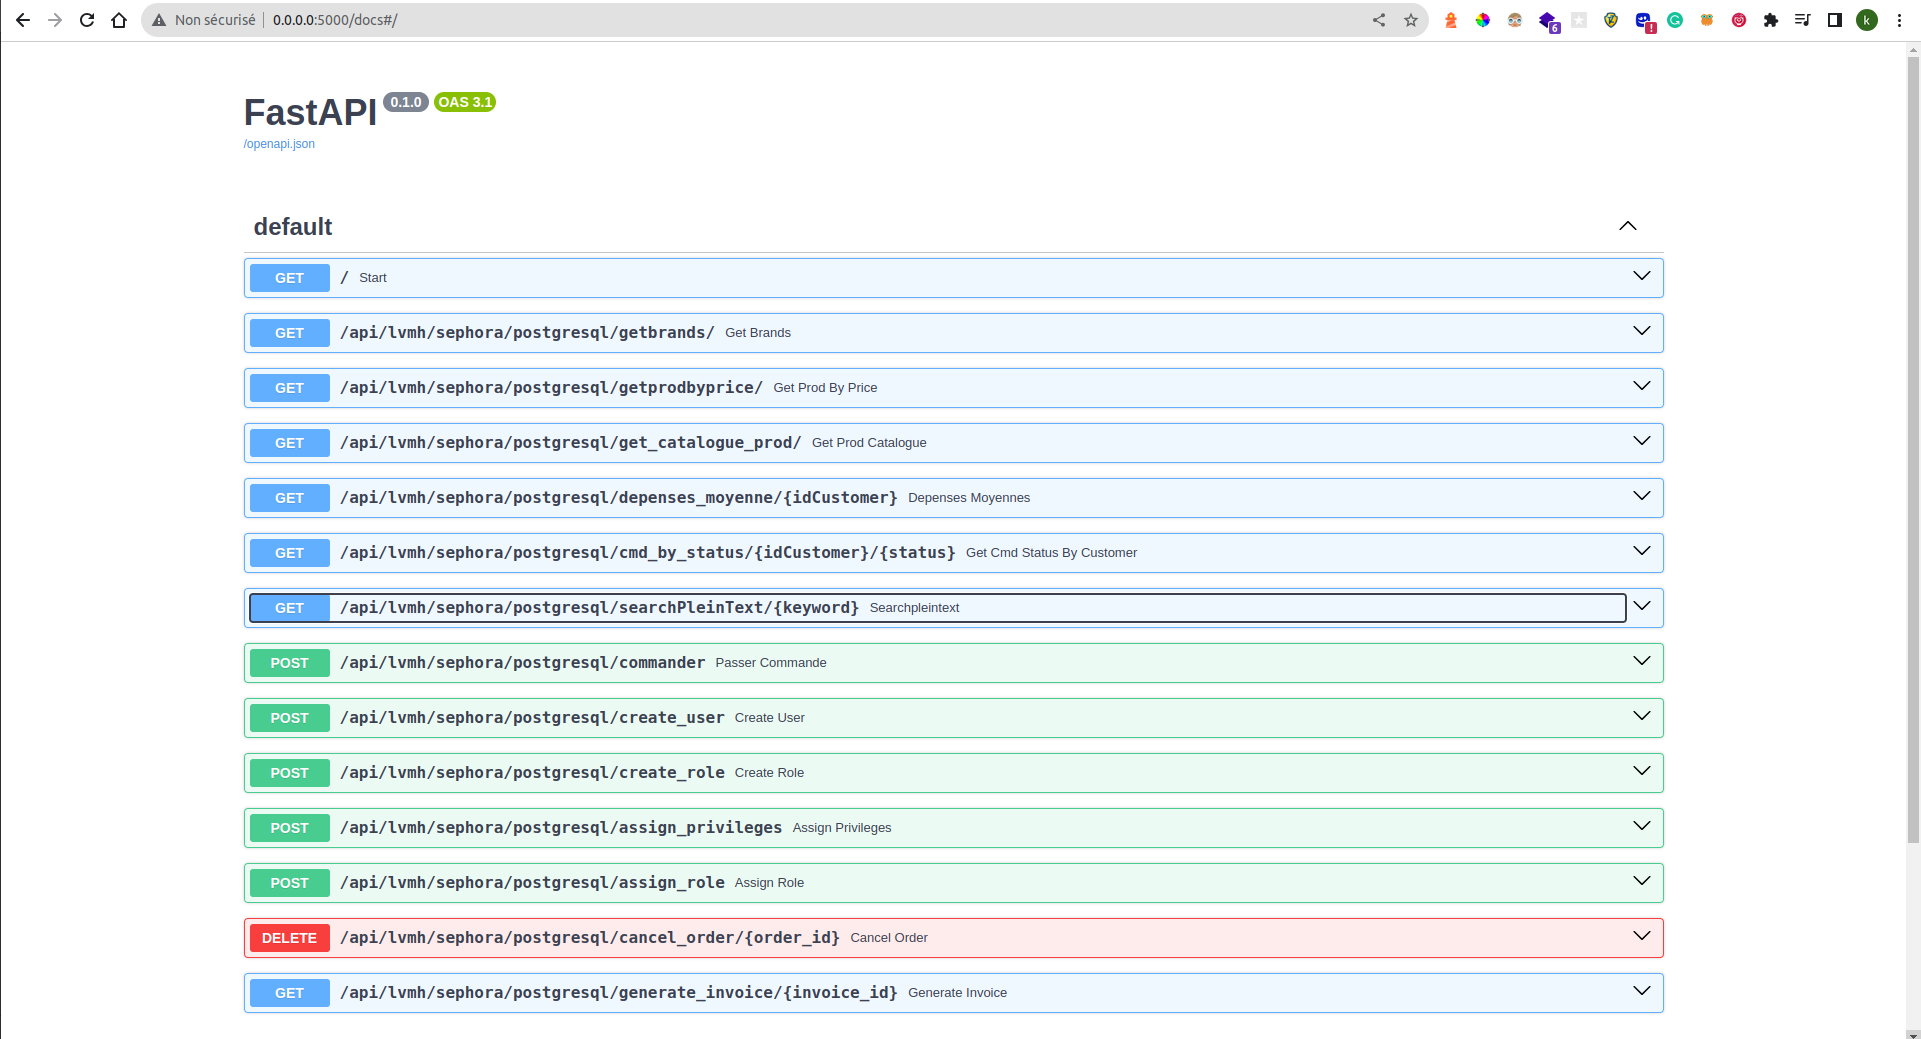
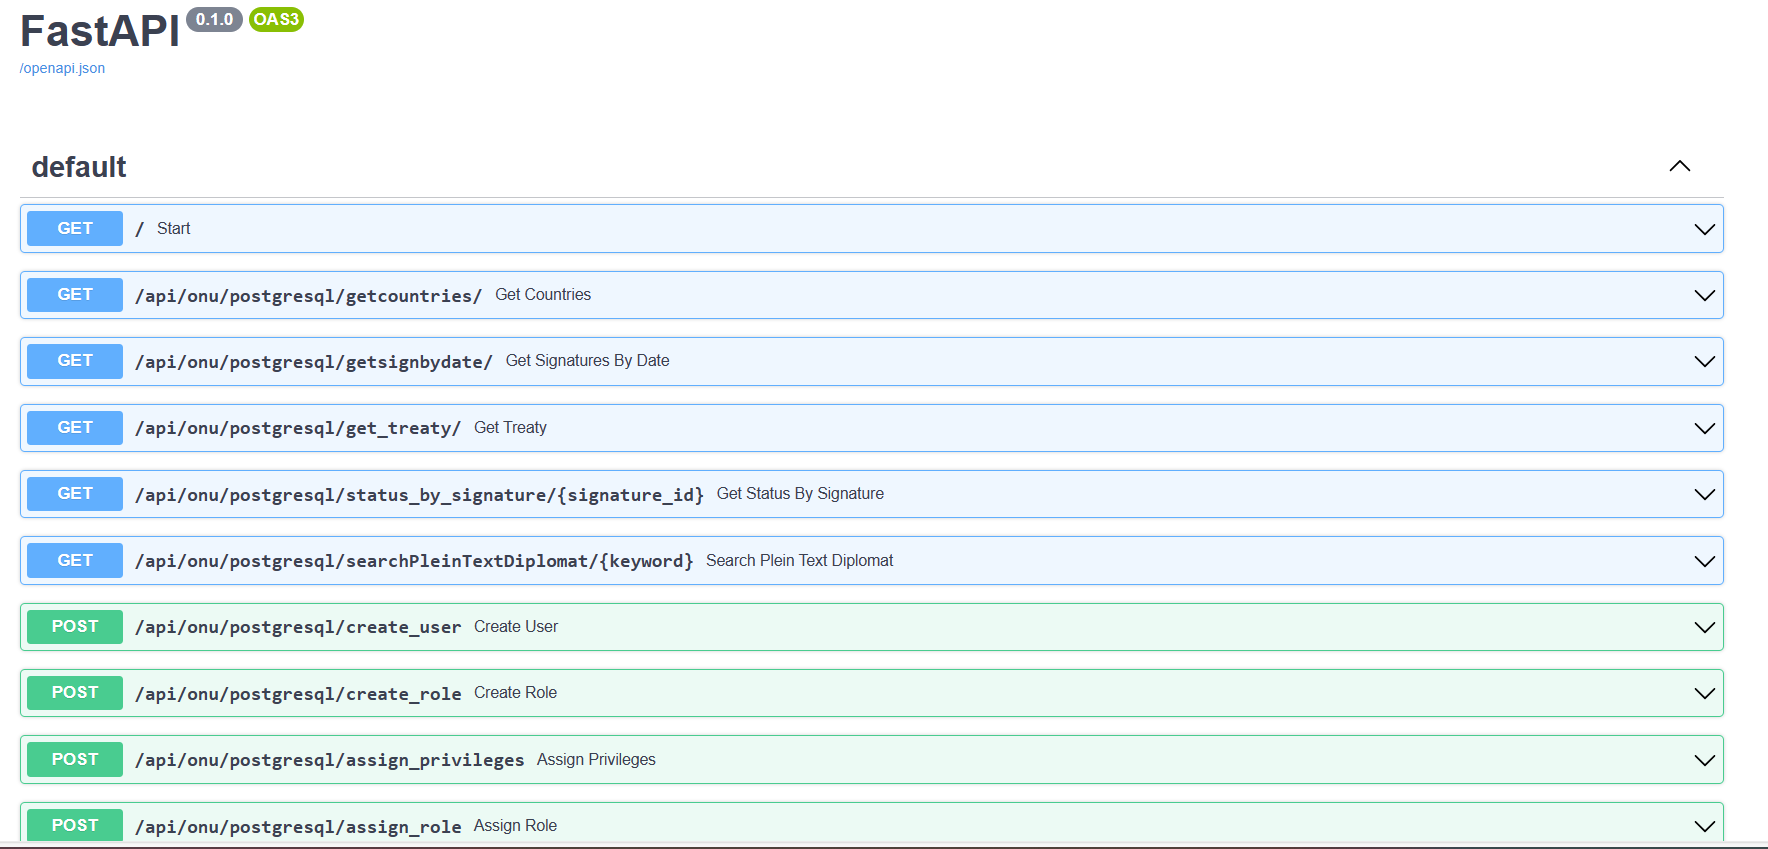
projet_final_endpoint_fonctionnel

diff --git a/README.md b/README.md
@@ -31,7 +31,11 @@ Pour exécuter l'API localement, suivez ces étapes :
 
 ## Fonctionnalités
 
-### API Flask
+### API Fast
+fastAPI donne la posisbilité d'accéder à une documentation générée automatiquement à partir de ce lien : 
+`http://127.0.0.1:5000/docs`
+
+![img.png](utils/imgFast.png)
 
 #### Liste des Pays
 
